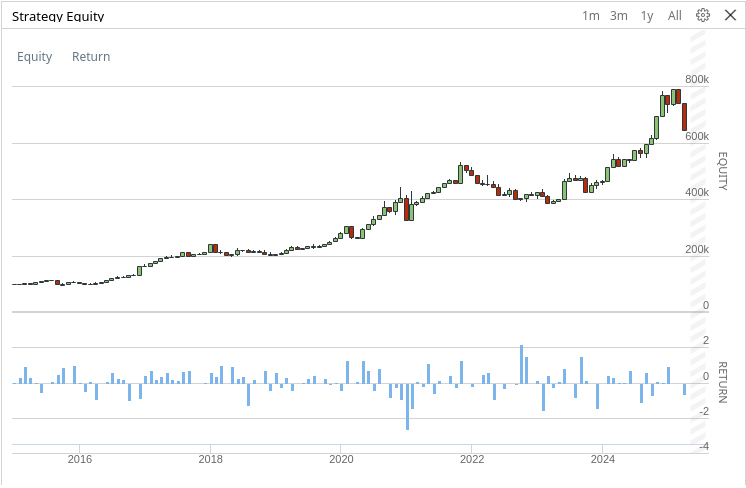
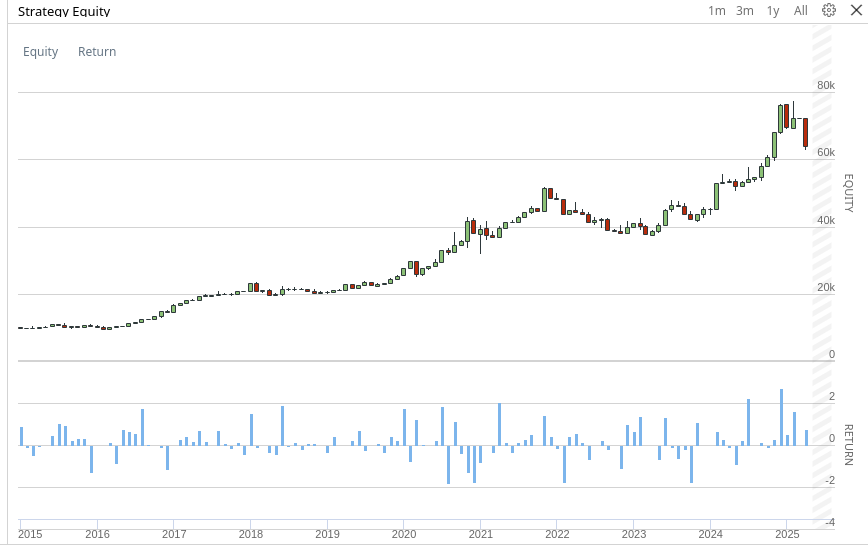
Updated documentation

diff --git a/README.md b/README.md
@@ -21,14 +21,14 @@ The Supertrend strategy can be used on different time horizons and in different 
 
 | Metric                  | Value         |
 |-------------------------|---------------|
-| CAGR (Annual Return)    | 25.5%        |
-| Max Drawdown            | -28.1%        |
+| CAGR (Annual Return)    | 20.3%        |
+| Max Drawdown            | -28%        |
 | Sharpe Ratio            | 0.8          |
-| Win Rate (Monthly)      | 42%           |
-| Total Trades            | 468           |
+| Win Rate (Monthly)      | 43%           |
+| Total Trades            | 431           |
 
 **Backtests last 10 years**
-* [Super trend on top 10 stocks from S&P 500 MOMENTUM index](https://s3.amazonaws.com/reports.quantconnect.com/344866/21529583/dcbb8fad6365cce2edd863e74b0cf4cc.pdf)
+* [Super trend on top 10 stocks from S&P 500 MOMENTUM index](https://s3.amazonaws.com/reports.quantconnect.com/344866/21529583/f84c680cf2428b3b2c5e2db11dd74ef0.pdf)
 
 ## Author
 Olivier Seban is a prominent figure in the world of trading and investing, particularly known for his expertise in technical analysis and trend following strategies. Born in France, Seban has built a reputation as an educator and author, sharing his insights and knowledge with aspiring traders worldwide.
